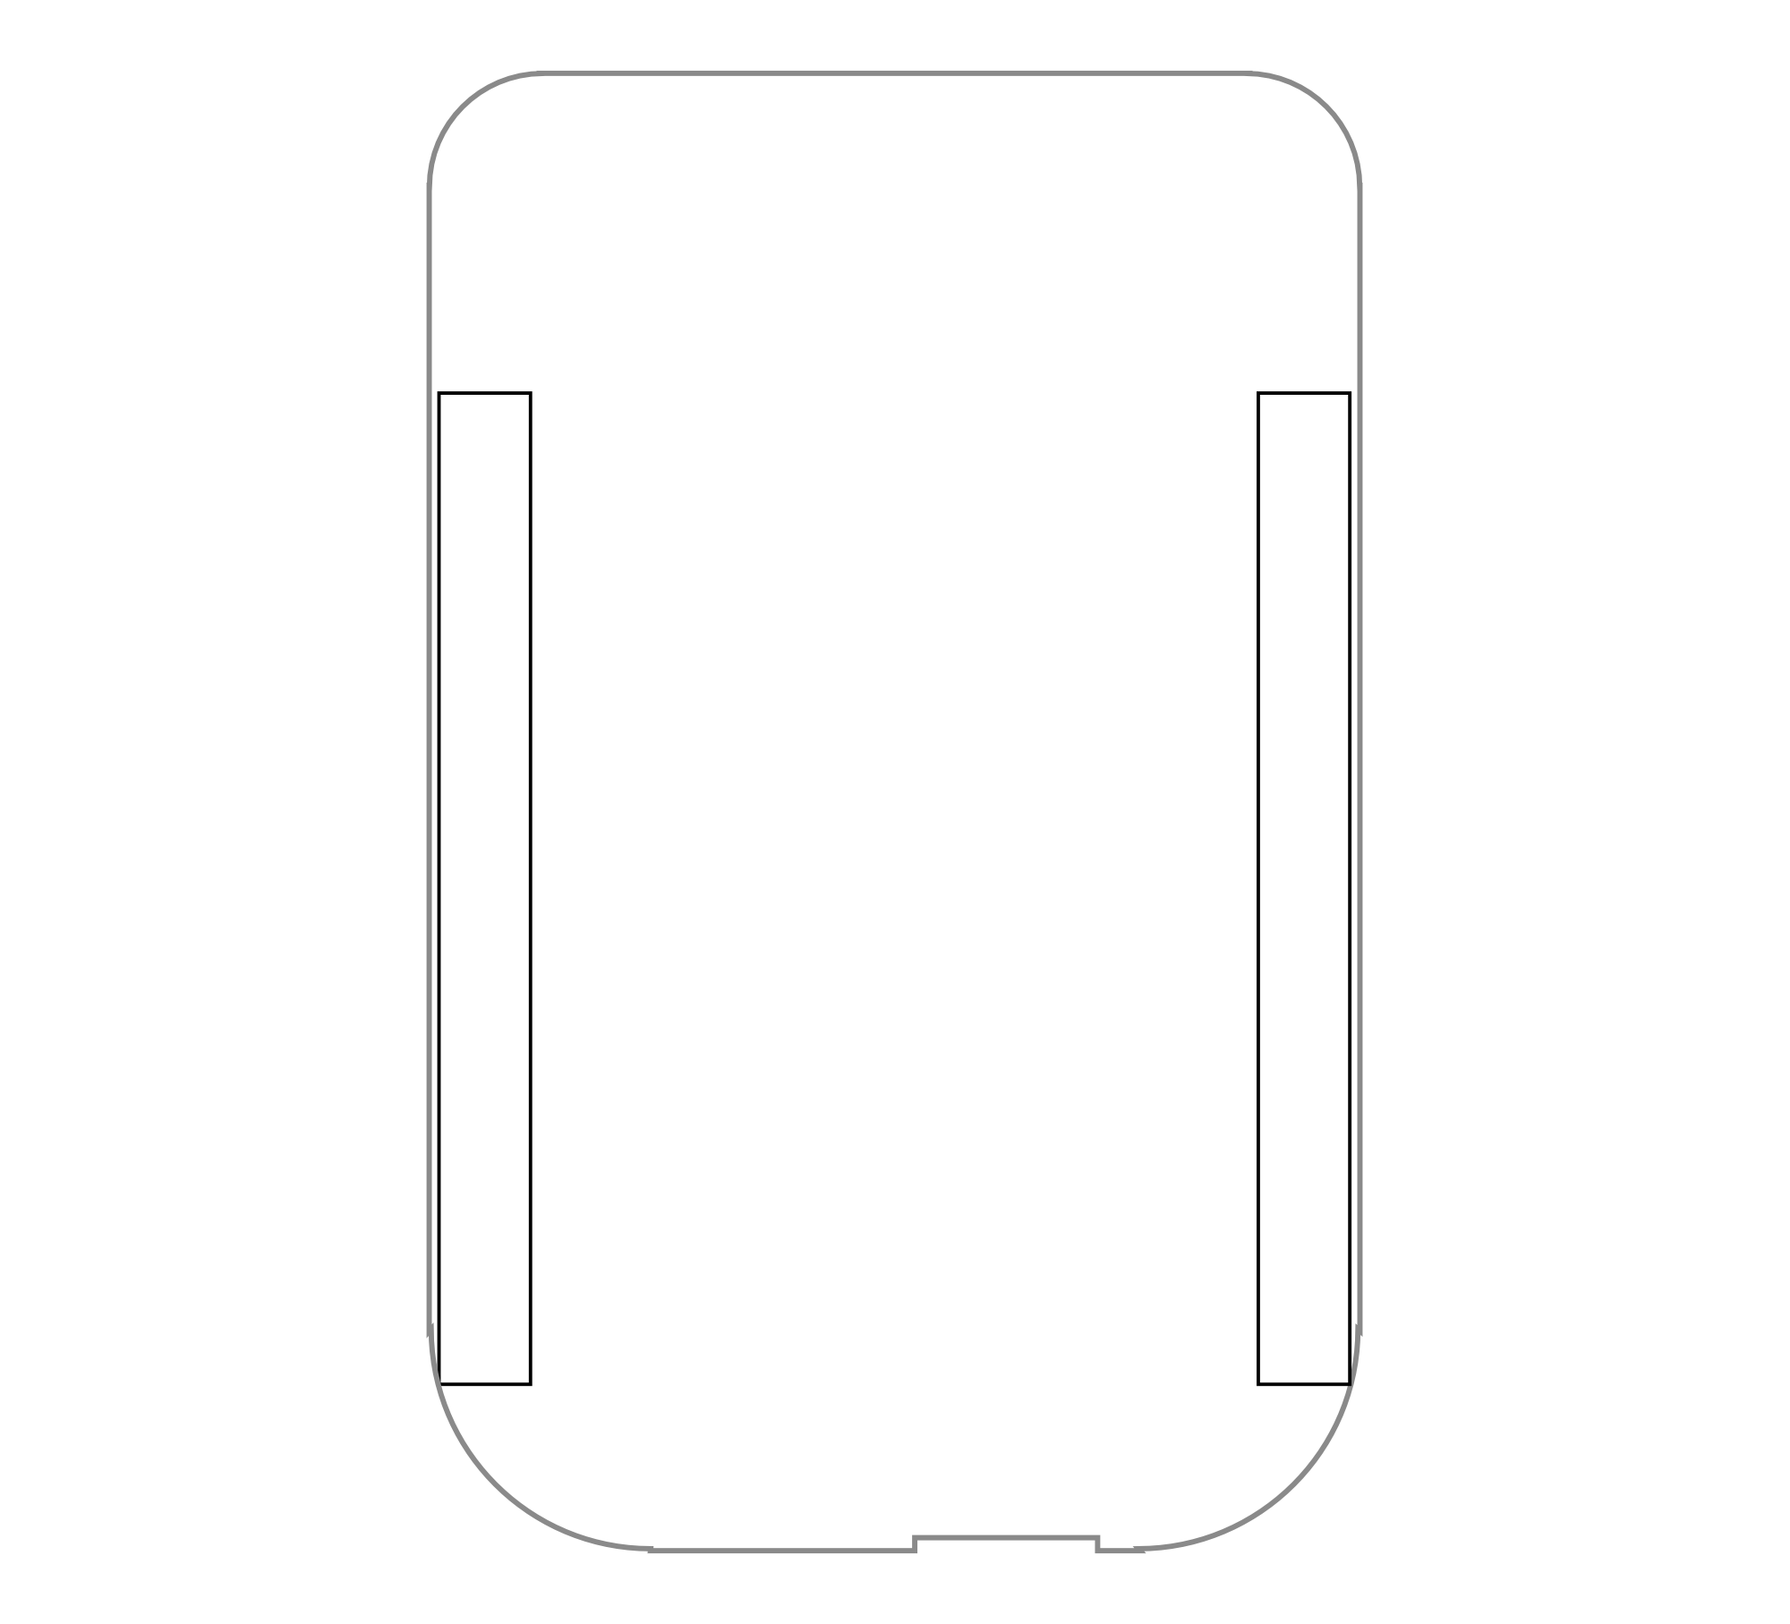
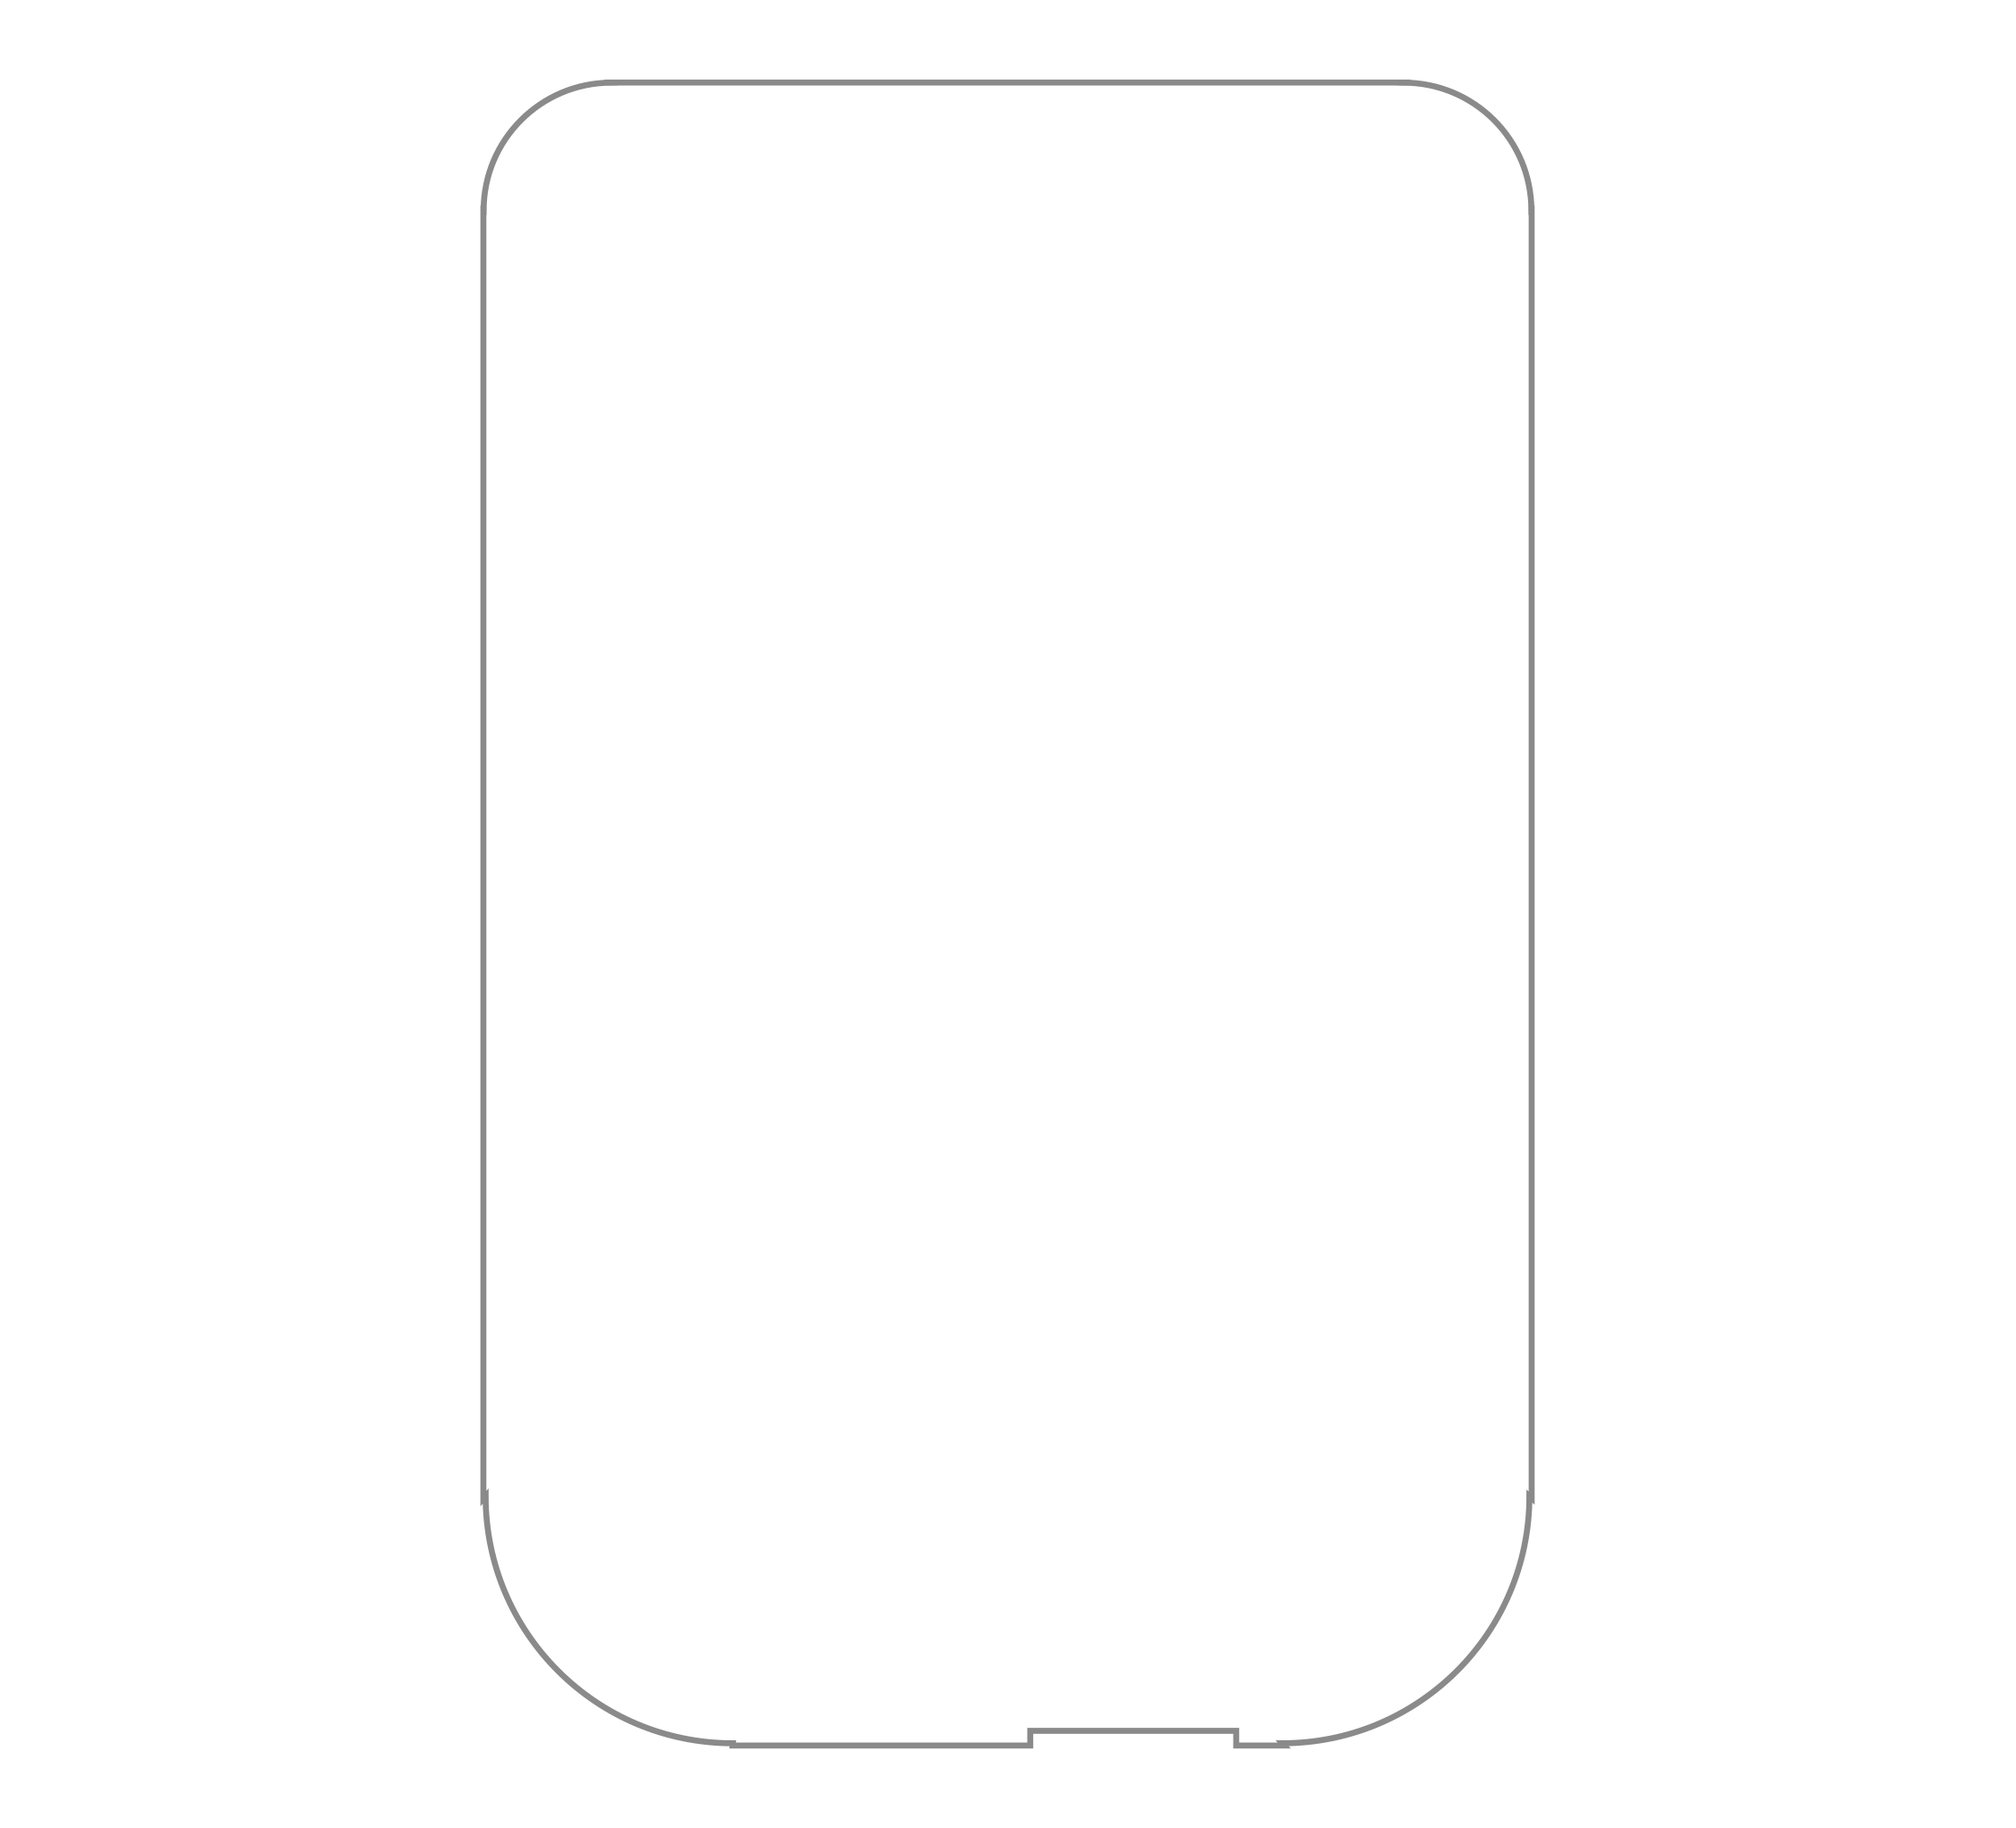
Making shape of port based on pin count

diff --git a/qml/BBIOConfig.qml b/qml/BBIOConfig.qml
@@ -202,11 +202,9 @@ Rectangle {
             id: port9
 
             anchors.top: parent.top
-            anchors.bottom: parent.bottom
             anchors.left: parent.left
             width: parent.width * 0.054
-            anchors.topMargin: parent.height * 0.265
-            anchors.bottomMargin: parent.height * 0.18
+            anchors.topMargin: parent.height * 0.275
             anchors.leftMargin: parent.width * 0.245
             currentColorMap: selector.currentColorMap
             loadedOverlays: overlaySelector.output
@@ -234,11 +232,9 @@ Rectangle {
             id: port8
 
             anchors.top: parent.top
-            anchors.bottom: parent.bottom
             anchors.right: parent.right
             width: parent.width * 0.054
-            anchors.topMargin: parent.height * 0.265
-            anchors.bottomMargin: parent.height * 0.18
+            anchors.topMargin: parent.height * 0.275
             anchors.rightMargin: parent.width * 0.245
             currentColorMap: selector.currentColorMap
             loadedOverlays: overlaySelector.output

diff --git a/qml/Port.qml b/qml/Port.qml
@@ -105,7 +105,7 @@ Rectangle {
     id: main
 
     width: 50
-    height: 500
+    height: grid.height + grid.spacing * 4
     color: "white"
     border.color: "black"
     border.width: main.width * 0.05
@@ -124,7 +124,9 @@ Rectangle {
         id: grid
         spacing: main.width * 0.06
         columns: main.pinRows
-        anchors.centerIn: parent
+        anchors.horizontalCenter: parent.horizontalCenter
+        anchors.top: parent.top
+        anchors.margins: spacing * 2
     }
 }
 
